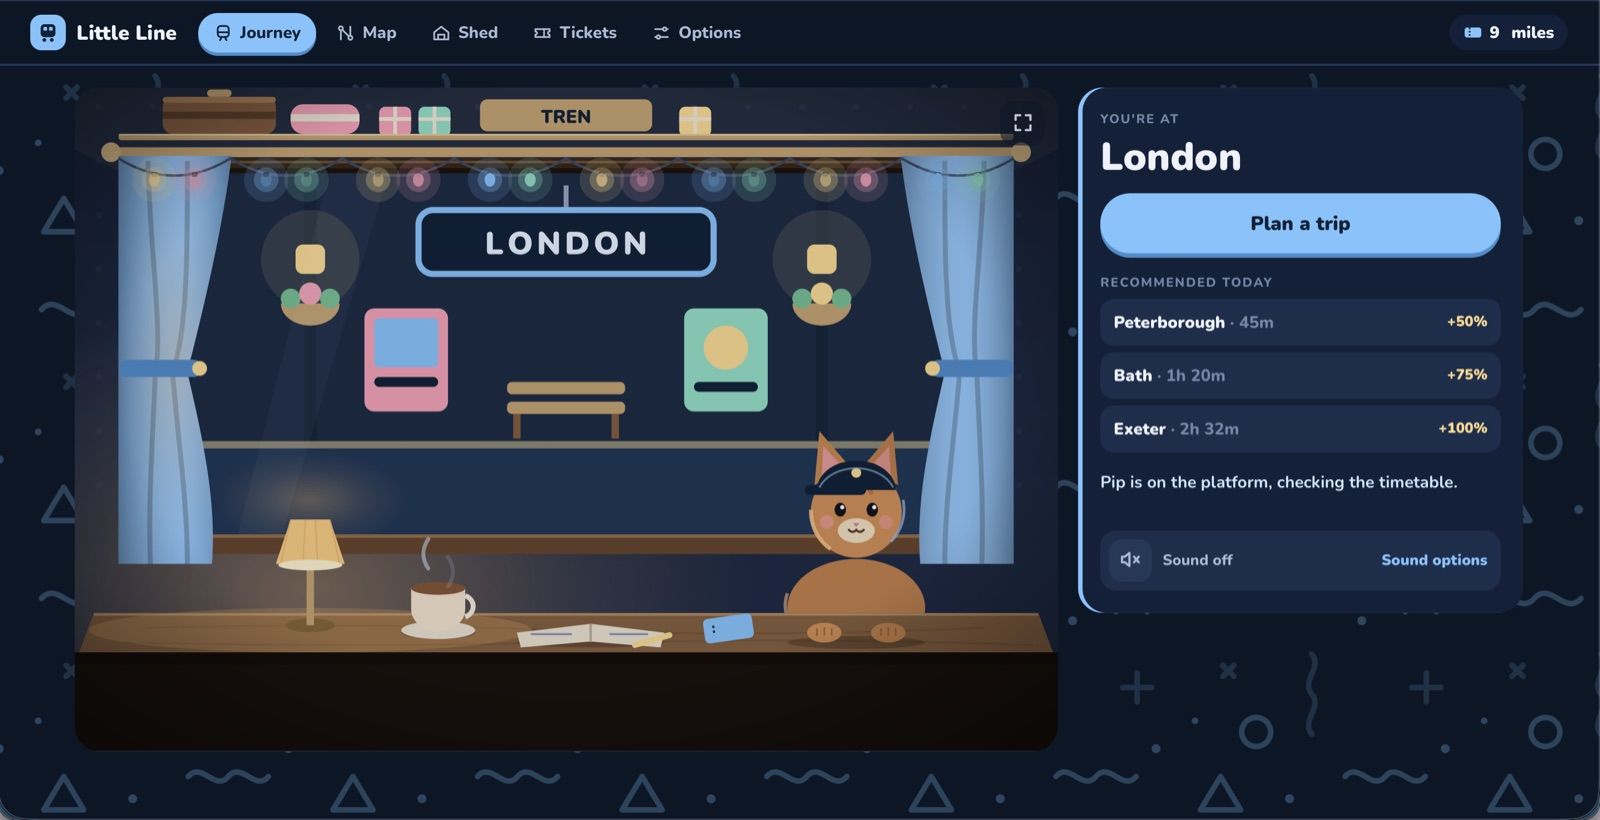
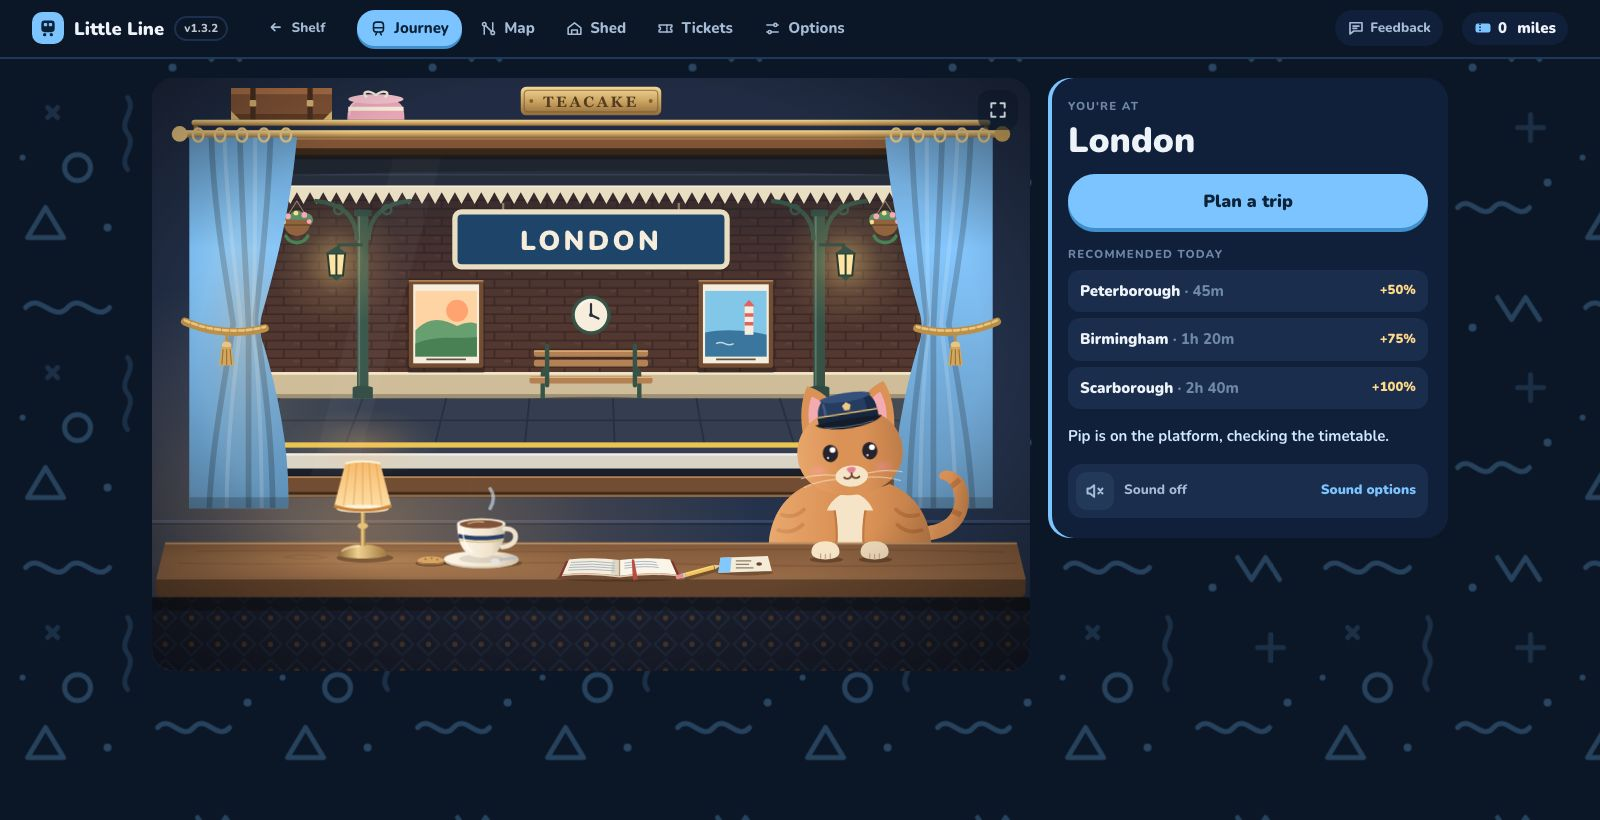
Add Ko-fi link, settings cog, smaller header buttons and a fresh Little Line screenshot

diff --git a/index.html b/index.html
@@ -26,12 +26,24 @@
         <a href="#about" class="btn btn-ghost">About</a>
         <a href="#contact" class="btn btn-ghost">Contact</a>
         <a href="https://github.com/cappleby1" class="btn btn-soft">GitHub</a>
+        <a href="https://ko-fi.com/catappleby" class="btn btn-soft" target="_blank" rel="noopener noreferrer">
+          <svg width="22" height="22" viewBox="0 0 24 24" fill="none" stroke="currentColor" stroke-width="2.2" stroke-linecap="round" stroke-linejoin="round" aria-hidden="true"><path d="M3 6h13v7a5 5 0 0 1-5 5H8a5 5 0 0 1-5-5z"/><path d="M16 8h2a3 3 0 0 1 0 6h-2"/><path d="M9.5 14.4l-2.4-2.3a1.5 1.5 0 0 1 2.4-1.9 1.5 1.5 0 0 1 2.4 1.9z" fill="#FF5E5B" stroke="none"/></svg>
+          Support me on Ko-fi
+        </a>
       </nav>
-      <button type="button" class="toggle" id="hc-toggle" aria-pressed="false">
-        <svg width="20" height="20" viewBox="0 0 24 24" fill="none" stroke="currentColor" stroke-width="2.4" aria-hidden="true"><circle cx="12" cy="12" r="9"/><path d="M12 3a9 9 0 0 1 0 18z" fill="currentColor"/></svg>
-        High contrast
-        <span class="track" aria-hidden="true"><span class="knob"></span></span>
-      </button>
+      <div class="settings">
+        <button type="button" class="btn btn-soft cog" id="settings-btn" aria-label="Settings" aria-expanded="false" aria-controls="settings-panel">
+          <svg width="20" height="20" viewBox="0 0 24 24" fill="none" stroke="currentColor" stroke-width="2.2" stroke-linecap="round" stroke-linejoin="round" aria-hidden="true"><circle cx="12" cy="12" r="3"/><path d="M19.4 15a1.65 1.65 0 0 0 .33 1.82l.06.06a2 2 0 1 1-2.83 2.83l-.06-.06a1.65 1.65 0 0 0-1.82-.33 1.65 1.65 0 0 0-1 1.51V21a2 2 0 1 1-4 0v-.09A1.65 1.65 0 0 0 9 19.4a1.65 1.65 0 0 0-1.82.33l-.06.06a2 2 0 1 1-2.83-2.83l.06-.06A1.65 1.65 0 0 0 4.68 15a1.65 1.65 0 0 0-1.51-1H3a2 2 0 1 1 0-4h.09A1.65 1.65 0 0 0 4.6 9a1.65 1.65 0 0 0-.33-1.82l-.06-.06a2 2 0 1 1 2.83-2.83l.06.06A1.65 1.65 0 0 0 9 4.68a1.65 1.65 0 0 0 1-1.51V3a2 2 0 1 1 4 0v.09a1.65 1.65 0 0 0 1 1.51 1.65 1.65 0 0 0 1.82-.33l.06-.06a2 2 0 1 1 2.83 2.83l-.06.06A1.65 1.65 0 0 0 19.4 9a1.65 1.65 0 0 0 1.51 1H21a2 2 0 1 1 0 4h-.09a1.65 1.65 0 0 0-1.51 1z"/></svg>
+        </button>
+        <div class="card settings-panel" id="settings-panel" hidden>
+          <p class="label">Settings</p>
+          <button type="button" class="toggle" id="hc-toggle" aria-pressed="false">
+            <svg width="20" height="20" viewBox="0 0 24 24" fill="none" stroke="currentColor" stroke-width="2.4" aria-hidden="true"><circle cx="12" cy="12" r="9"/><path d="M12 3a9 9 0 0 1 0 18z" fill="currentColor"/></svg>
+            High contrast
+            <span class="track" aria-hidden="true"><span class="knob"></span></span>
+          </button>
+        </div>
+      </div>
     </div>
   </header>
   <div class="rule" aria-hidden="true"></div>
@@ -113,7 +125,10 @@
 
   <footer class="wrap site-footer">
     <span>Made by Catherine Appleby, 2026</span>
-    <a href="https://github.com/cappleby1">github.com/cappleby1</a>
+    <span class="footer-links">
+      <a href="https://github.com/cappleby1">github.com/cappleby1</a>
+      <a href="https://ko-fi.com/catappleby" target="_blank" rel="noopener noreferrer">ko-fi.com/catappleby</a>
+    </span>
   </footer>
 
   <script src="script.js"></script>

diff --git a/CSS/style.css b/CSS/style.css
@@ -132,6 +132,23 @@ a:hover { color: var(--link-hover); }
 .hc .track { background: #FFD400; border-color: #FFD400; }
 .hc .knob { left: 21px; background: #000000; transition: none; }
 
+/* Smaller buttons in the header */
+.site-header .btn { min-height: 38px; font-size: 15px; padding: 0 16px; gap: 6px; }
+.site-header .btn svg { width: 18px; height: 18px; }
+.site-header .logo { font-size: 18px; padding: 0 18px 0 14px; gap: 10px; }
+
+/* Settings cog */
+.settings { position: relative; }
+.site-header .cog { width: 38px; padding: 0; justify-content: center; }
+.cog[aria-expanded="true"] { background: var(--border); }
+.settings-panel {
+  position: absolute; top: calc(100% + 10px); right: 0; z-index: 10;
+  padding: 16px; display: grid; gap: 12px;
+  box-shadow: 0 10px 30px rgba(0,0,0,.35);
+  white-space: nowrap;
+}
+.settings-panel[hidden] { display: none; }
+
 /* Hero */
 .hero {
   padding-top: 64px;
@@ -296,6 +313,7 @@ a:hover { color: var(--link-hover); }
   color: var(--label);
   font-size: 15px; font-weight: 700;
 }
+.footer-links { display: flex; flex-wrap: wrap; gap: 16px; }
 
 @media (prefers-reduced-motion: reduce) {
   html { scroll-behavior: auto; }

diff --git a/script.js b/script.js
@@ -164,4 +164,19 @@ document.addEventListener('DOMContentLoaded', () => {
   $('hc-toggle').addEventListener('click', () => {
     setHighContrast(!document.documentElement.classList.contains('hc'));
   });
+
+  // ---- Settings cog ----
+  const cog = $('settings-btn');
+  const panel = $('settings-panel');
+  const setOpen = (open) => {
+    panel.hidden = !open;
+    cog.setAttribute('aria-expanded', open ? 'true' : 'false');
+  };
+  cog.addEventListener('click', () => setOpen(panel.hidden));
+  document.addEventListener('click', (e) => {
+    if (!panel.hidden && !e.target.closest('.settings')) setOpen(false);
+  });
+  document.addEventListener('keydown', (e) => {
+    if (e.key === 'Escape' && !panel.hidden) { setOpen(false); cog.focus(); }
+  });
 });
